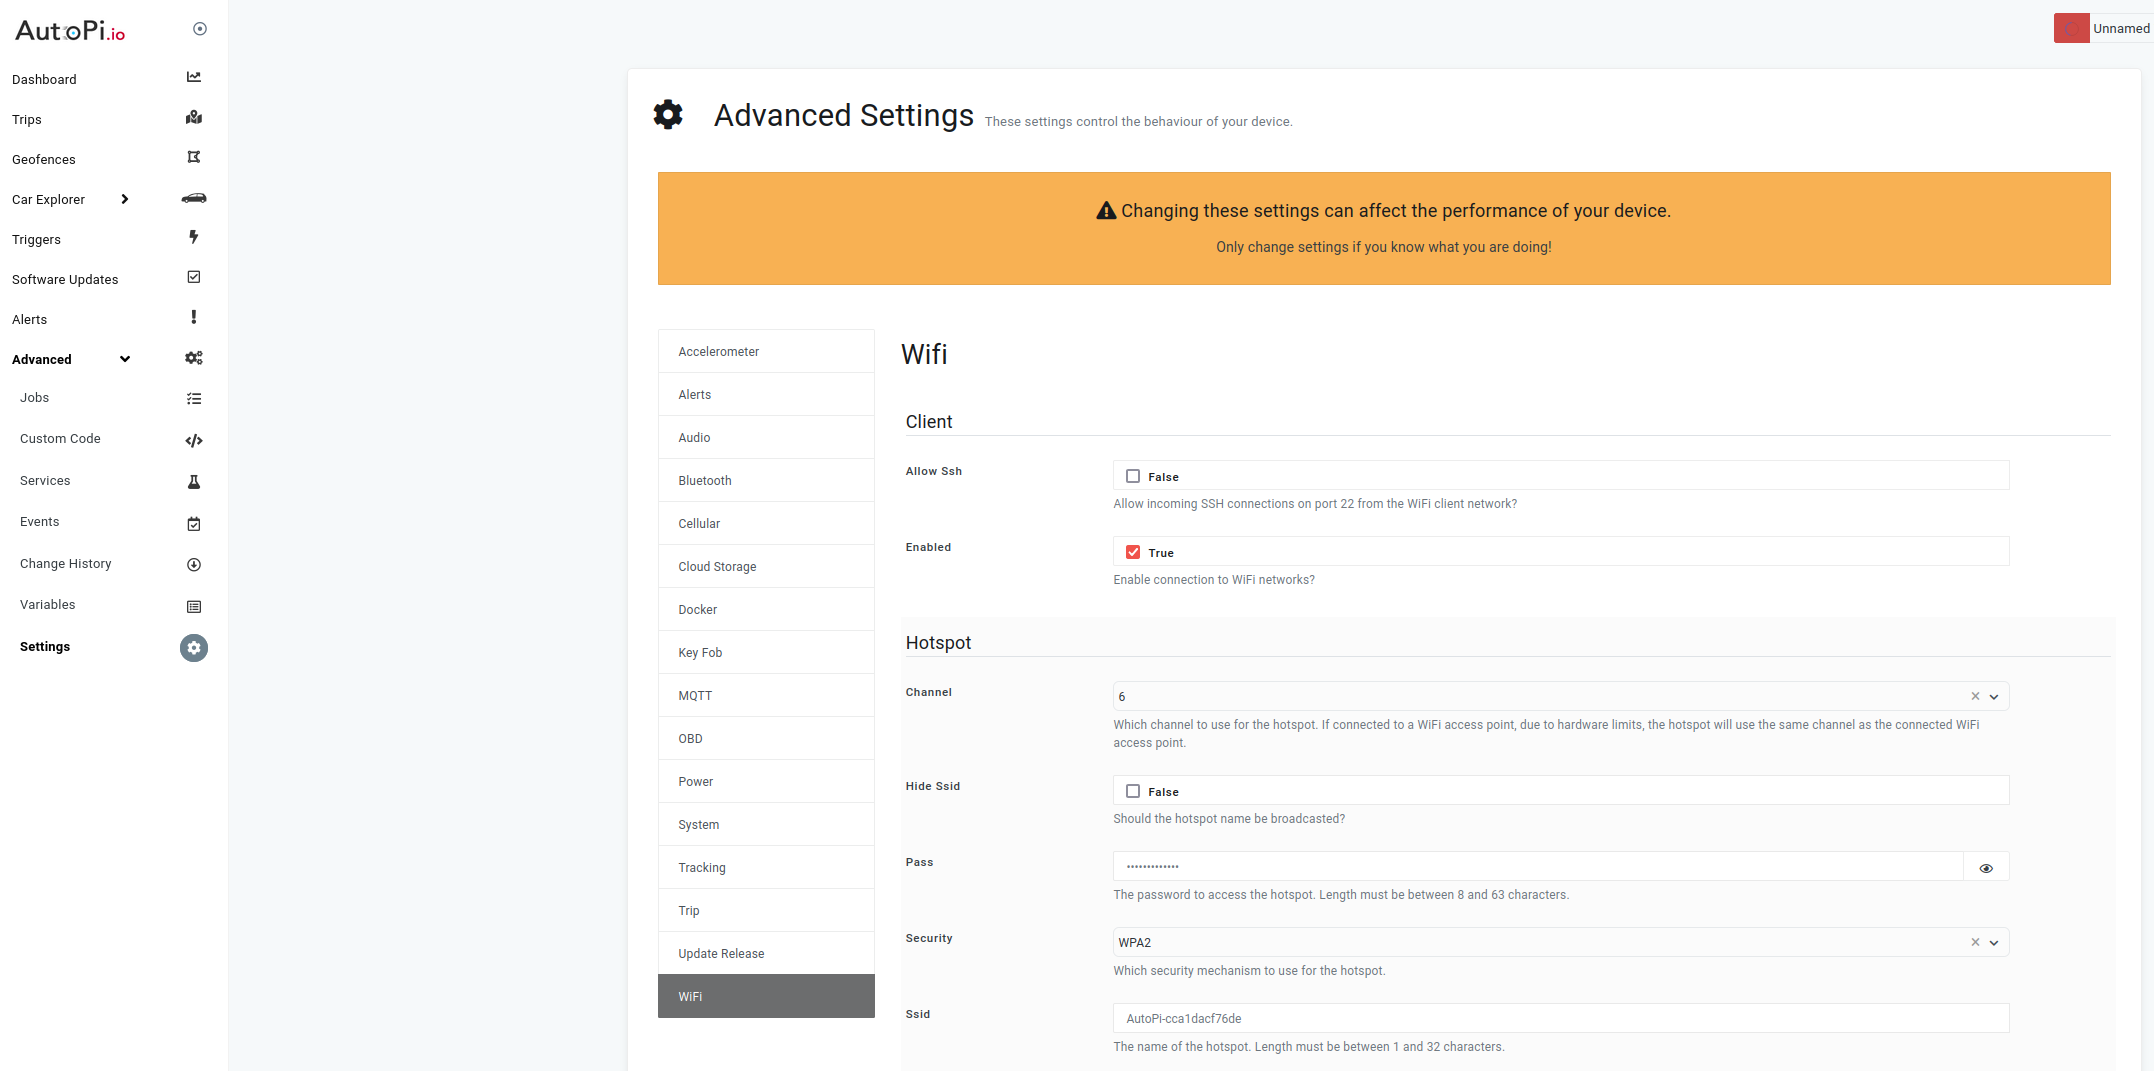
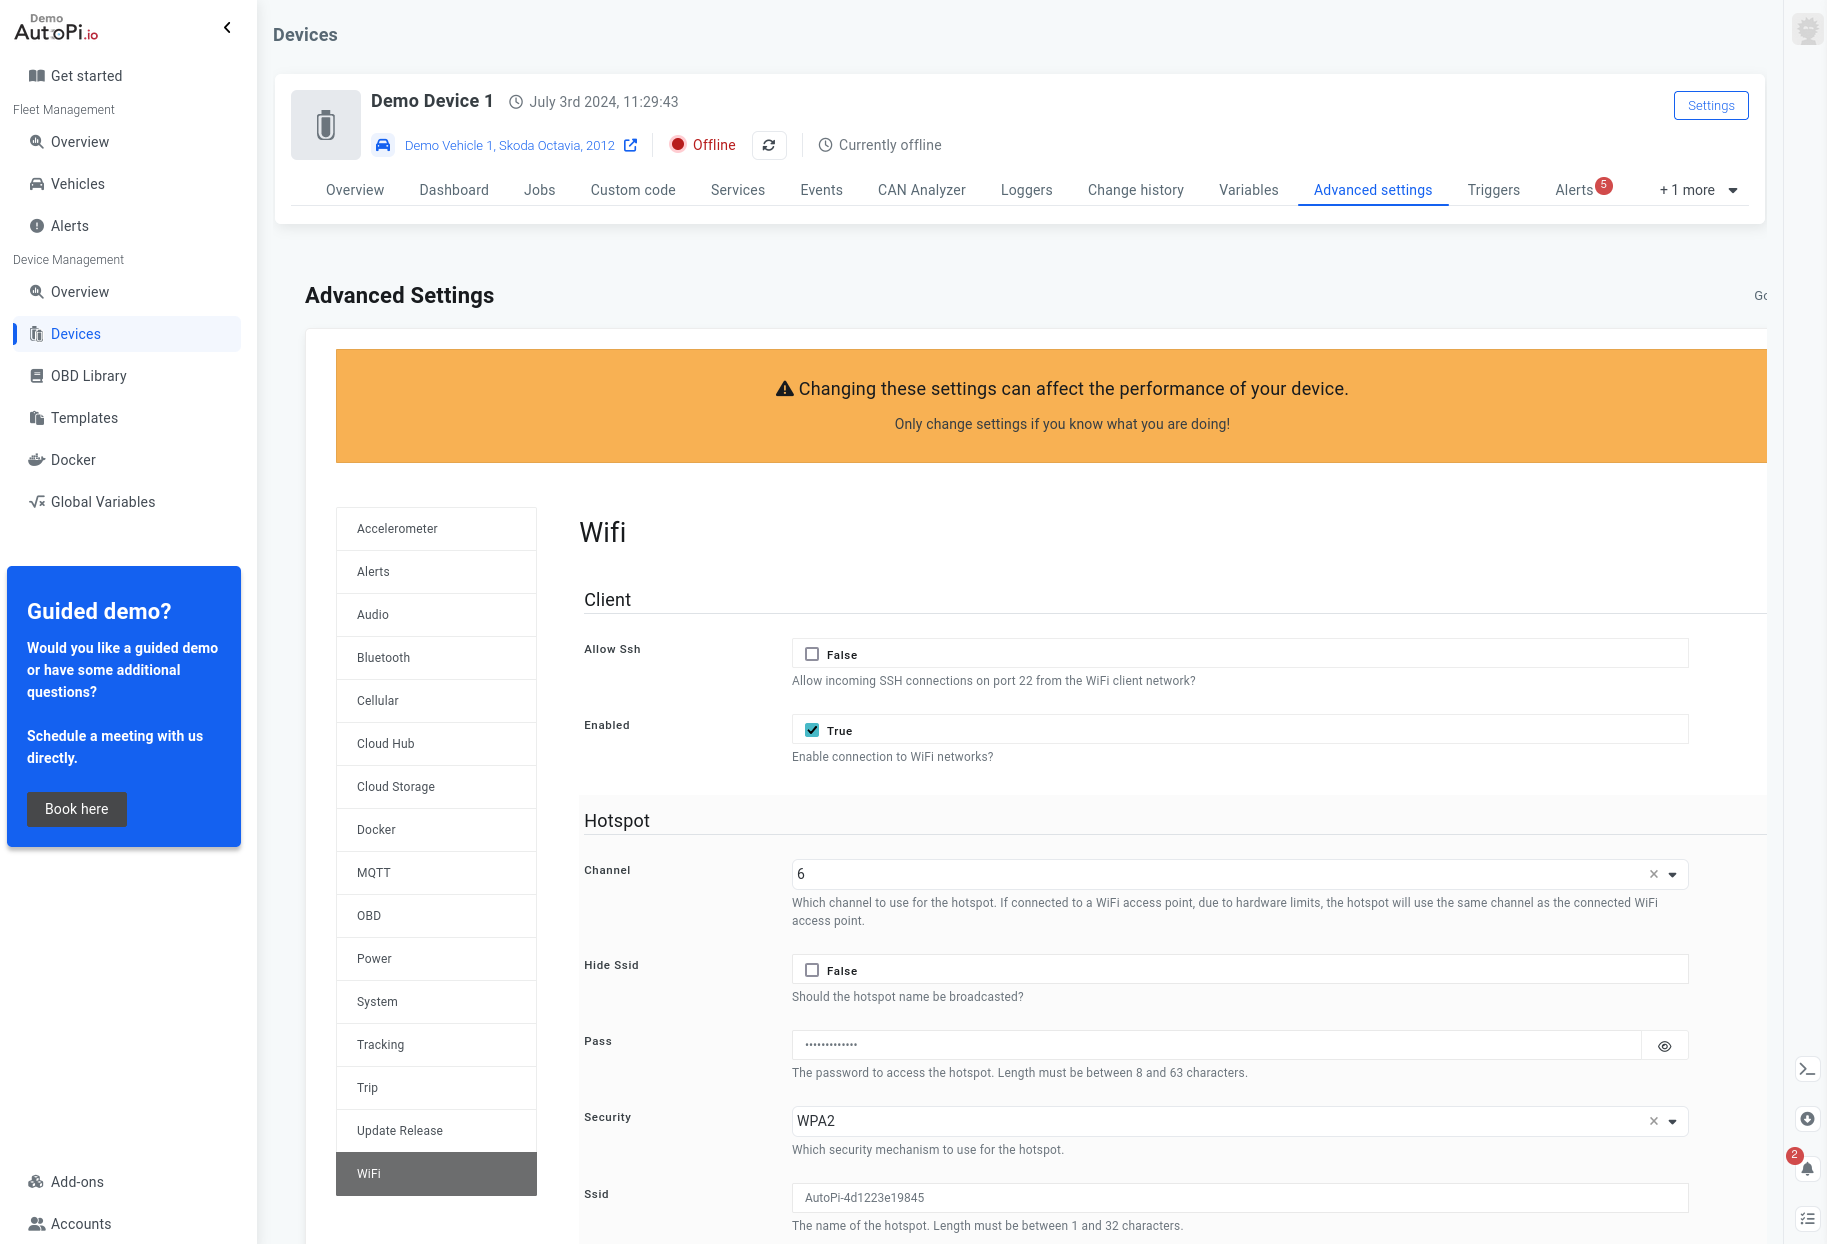
Updated outdated picture of advanced settings in getting started with TMU

diff --git a/docs/getting_started/cm4/index.md b/docs/getting_started/cm4/index.md
@@ -30,7 +30,7 @@ to [my.autopi.io](https://my.autopi.io/) and following the signup guide here. Pl
 Unit ID ready. Your unit ID is printed on the side of your device, but also part of the
 documentation sent to you per email.
 
-When your device is associated to your account, go to **"Advanced->Settings->WiFi"** to see the
+When your device is associated to your account, go to **Device -> Advanced Settings -> WiFi** to see the
 WiFi hotspot password and SSID.
 
 You will need these later.
